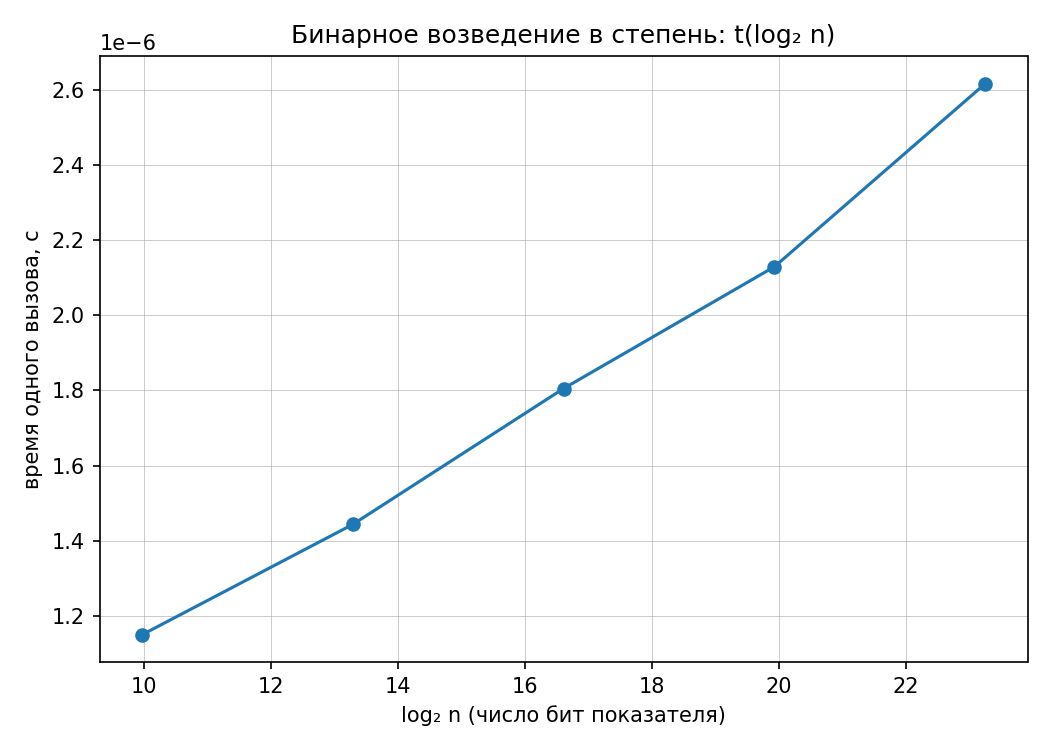
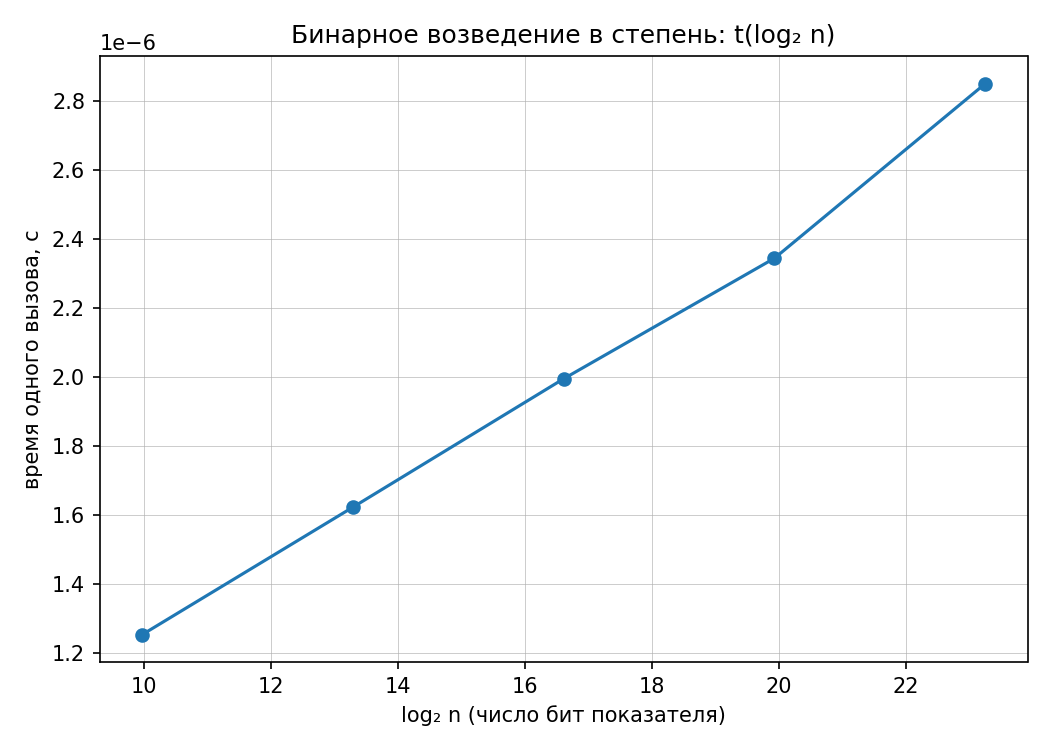
Лаба первая

diff --git a/M1-intro-and-basic-structures/attachments/laba1.py b/M1-intro-and-basic-structures/attachments/laba1.py
@@ -1,0 +1,351 @@
+#!/usr/bin/env python3
+# -*- coding: utf-8 -*-
+"""ЛР 1. Анализ временной сложности элементарных алгоритмов — стартовая заготовка.
+
+Заготовка — это каркас, а не решение: заполните все TODO самостоятельно
+в соответствии с КИМ-01 и правилами использования генеративного ИИ
+(docs/ai-verification.md). Каркас загрузки данных, замеров и построения
+графиков уже готов — учебная задача в алгоритмах и в объяснении результатов.
+
+Работа выполняется на данных СВОЕГО варианта. Перед первым запуском их нужно
+сгенерировать (из корня репозитория курса):
+
+    python scripts/generate_data.py --variant N --only arrays
+
+Запуск (N — ваш номер варианта):
+
+    python lab01-complexity-starter.py --variant N
+
+Если заготовка скопирована в личный репозиторий и каталог с данными не находится
+автоматически, укажите его явно:
+
+    python lab01-complexity-starter.py --variant N --data ~/data-structures-and-algorithms/data/generated
+"""
+from __future__ import annotations
+
+import argparse
+import json
+import math
+import random
+import statistics
+import time
+from pathlib import Path
+
+# ---------------------------------------------------------------------------
+# Параметры эксперимента
+# ---------------------------------------------------------------------------
+
+#: Размеры массивов, для которых generate_data.py создаёт файлы.
+SIZES = (1_000, 3_000, 10_000, 30_000, 100_000)
+
+#: Для квадратичного алгоритма n = 100 000 исключён: это порядка 15 минут.
+#: Размер 500 берётся как префикс файла на 1 000 элементов — так у нас
+#: остаётся пять точек, как требует задание.
+QUADRATIC_SIZES = (500, 1_000, 3_000, 10_000, 30_000)
+
+#: Показатели степени для замера бинарного возведения в степень.
+EXPONENTS = (10**3, 10**4, 10**5, 10**6, 10**7)
+
+#: Модуль для возведения в степень. Без него Python считает длинную арифметику,
+#: и замер покажет рост длины чисел, а не число итераций (см. отчёт).
+POW_MOD = 1_000_000_007
+POW_BASE = 3
+
+REPEATS = 5           # повторов на точку (берётся медиана)
+POW_CALLS = 20_000    # вызовов binary_pow на один замер: иначе время неизмеримо мало
+
+# ---------------------------------------------------------------------------
+# 1. Алгоритмы (реализуются вручную, без sum/max и встроенного pow)
+# ---------------------------------------------------------------------------
+
+
+def array_sum(a: list[int]) -> int:
+    """Сумма элементов массива. Ожидаемая сложность: 0(n) (линейная)."""
+    res=0
+    for x in a:
+        res+=x
+    return res
+    
+
+
+def array_max(a: list[int]) -> int:
+    """Максимум массива (массив непуст). Ожидаемая сложность: 0(n) (линейная)."""
+    max=a[0]
+    for i in range(1,len(a)):
+        if a[i]>max:
+            max=a[i]
+    return max
+
+
+def count_equal_pairs(a: list[int]) -> int:
+    """Число пар (i, j), i < j, таких что a[i] == a[j]. Ожидаемая сложность: 0(n^2) (квадратичная)."""
+    cou=0
+    length=len(a)
+    for i in range(length):
+        for j in range(i+1,length):
+            if a[i]==a[j]:
+                cou+=1
+    return cou
+
+
+def binary_pow(x: int, n: int, mod: int | None = None) -> int:
+    """Бинарное возведение в степень, n >= 0. Ожидаемая сложность: 0(log n) (логарифмическая)."""
+    result=1
+    if mod is not None:
+        x=x%mod
+
+    while n>0:
+        if n%2==1:
+            result=result*x
+            if mod is not None:
+                result=result%mod
+        x=x*x
+        if mod is not None:
+            x=x%mod
+        n//=2
+
+    return result
+
+
+# ---------------------------------------------------------------------------
+# 2. Данные варианта: поиск каталога и загрузка
+# ---------------------------------------------------------------------------
+
+
+def find_data_dir(explicit: Path | None) -> Path:
+    """Каталог с данными варианта: --data, либо data/generated рядом с работой."""
+    if explicit is not None:
+        if not explicit.is_dir():
+            raise SystemExit(f"Каталог не найден: {explicit}")
+        return explicit
+    candidates = []
+    for base in (Path.cwd(), Path(__file__).resolve().parent):
+        for parent in (base, *base.parents):
+            candidates.append(parent / "data" / "generated")
+    for path in candidates:
+        if path.is_dir():
+            return path
+    raise SystemExit(
+        "Не найден каталог data/generated с данными варианта.\n"
+        "Сгенерируйте данные из корня репозитория курса:\n"
+        "    python scripts/generate_data.py --variant N --only arrays\n"
+        "или укажите каталог явно: --data <путь>")
+
+
+def check_variant(data_dir: Path, variant: int) -> None:
+    """Сверить номер варианта с паспортом данных (manifest.json)."""
+    manifest_path = data_dir / "manifest.json"
+    if not manifest_path.is_file():
+        print(f"ВНИМАНИЕ: в {data_dir} нет manifest.json — "
+              f"не могу проверить, что данные относятся к варианту {variant}.")
+        return
+    manifest = json.loads(manifest_path.read_text(encoding="utf-8"))
+    actual = manifest.get("variant")
+    if actual != variant:
+        raise SystemExit(
+            f"Данные в {data_dir} сгенерированы для варианта {actual}, "
+            f"а работа запущена с --variant {variant}.\n"
+            f"Перегенерируйте данные: "
+            f"python scripts/generate_data.py --variant {variant} --only arrays")
+    print(f"Данные варианта {variant} (seed={manifest.get('seed')}) из {data_dir}")
+
+
+def load_array(data_dir: Path, kind: str, n: int, limit: int | None = None) -> list[int]:
+    """Загрузить массив arrays_<kind>_<n>.txt; limit — взять только первые limit чисел."""
+    path = data_dir / f"arrays_{kind}_{n}.txt"
+    if not path.is_file():
+        raise SystemExit(
+            f"Не найден файл данных: {path}\n"
+            f"Сгенерируйте его: python scripts/generate_data.py "
+            f"--variant <ваш вариант> --only arrays")
+    values = [int(line) for line in path.read_text(encoding="utf-8").split()]
+    return values[:limit] if limit is not None else values
+
+
+# ---------------------------------------------------------------------------
+# 3. Репрезентативные тесты и инварианты (шаги 1–3 методики верификации)
+# ---------------------------------------------------------------------------
+
+
+def self_check() -> None:
+    """Граничные и типовые случаи + сверка с эталоном (sum, max, pow)."""
+    # Граничные случаи
+    assert array_sum([]) == 0
+    assert array_sum([7]) == 7
+    assert array_max([3, 1, 2]) == 3
+    assert count_equal_pairs([]) == 0
+    assert count_equal_pairs([5, 5, 5]) == 3          # пары (0,1), (0,2), (1,2)
+    assert binary_pow(2, 0) == 1
+    assert binary_pow(2, 10) == 1024
+    assert binary_pow(2, 10, mod=1000) == 24
+
+    # Сверка с эталонными реализациями на случайных данных
+    rng = random.Random(0)
+    for _ in range(200):
+        a = [rng.randint(-50, 50) for _ in range(rng.randint(1, 60))]
+        assert array_sum(a) == sum(a)
+        assert array_max(a) == max(a)
+        assert count_equal_pairs(a)==count_equal_pairs(a[::-1]) #прверка инвариативности на случайных массивах    
+    for _ in range(200):
+        x, n = rng.randint(2, 50), rng.randint(0, 64)
+        assert binary_pow(x, n, mod=POW_MOD) == pow(x, n, POW_MOD)
+
+    #собственная проверка
+    assert count_equal_pairs([1, 2, 3, 4, 5])==0
+    assert count_equal_pairs([1, 1, 1, 1])==6
+
+    print("self_check: OK")
+
+
+# ---------------------------------------------------------------------------
+# 4. Бенчмарк (методика — docs/reproducibility.md)
+# ---------------------------------------------------------------------------
+
+
+def bench(call) -> float:
+    """Медиана времени выполнения call() по REPEATS запускам, с прогревом."""
+    call()  # прогрев — не учитывается
+    times = []
+    for _ in range(REPEATS):
+        t0 = time.perf_counter()
+        call()
+        times.append(time.perf_counter() - t0)
+    return statistics.median(times)
+
+
+def log_log_slope(points: list[tuple[int, float]]) -> float:
+    """Наклон прямой в осях (log n, log t) — оценка показателя степени."""
+    xs = [math.log10(n) for n, _ in points]
+    ys = [math.log10(t) for _, t in points]
+    mx, my = sum(xs) / len(xs), sum(ys) / len(ys)
+    return (sum((x - mx) * (y - my) for x, y in zip(xs, ys))
+            / sum((x - mx) ** 2 for x in xs))
+
+
+def run_benchmarks(data_dir: Path) -> dict[str, list[tuple[int, float]]]:
+    """Замеры на данных варианта. Возвращает {имя алгоритма: [(n, t), ...]}."""
+    results: dict[str, list[tuple[int, float]]] = {}
+
+    # Линейные алгоритмы — на случайных массивах всех размеров
+    random_arrays = {n: load_array(data_dir, "random", n) for n in SIZES}
+    for name, fn in (("array_sum", array_sum), ("array_max", array_max)):
+        points = []
+        print(f"\n{name}:")
+        for n in SIZES:
+            a = random_arrays[n]
+            t = bench(lambda: fn(a))
+            points.append((n, t))
+            print(f"  n={n:>7}  t={t:.6f} c")
+        results[name] = points
+
+    # Квадратичный алгоритм — на массивах с дубликатами (иначе пар почти нет)
+    print("\ncount_equal_pairs:")
+    points = []
+    for n in QUADRATIC_SIZES:
+        file_n = n if n in SIZES else min(s for s in SIZES if s >= n)
+        a = load_array(data_dir, "dups", file_n, limit=n)
+        t = bench(lambda: count_equal_pairs(a))
+        points.append((n, t))
+        print(f"  n={n:>7}  t={t:.6f} c")
+    results["count_equal_pairs"] = points
+
+    # Логарифмический алгоритм: одна операция слишком быстра, замеряем пачку
+    # вызовов и делим на их число. Считаем по модулю — см. POW_MOD.
+    print(f"\nbinary_pow (по {POW_CALLS} вызовов на точку, по модулю {POW_MOD}):")
+    points = []
+    for e in EXPONENTS:
+        def batch(e: int = e) -> None:
+            for _ in range(POW_CALLS):
+                binary_pow(POW_BASE, e, mod=POW_MOD)
+        t = bench(batch) / POW_CALLS
+        points.append((e, t))
+        print(f"  n={e:>9}  log2(n)={math.log2(e):5.1f}  t={t:.9f} c")
+    results["binary_pow"] = points
+
+    return results
+
+
+# ---------------------------------------------------------------------------
+# 5. Графики
+# ---------------------------------------------------------------------------
+
+
+def plot_results(results: dict[str, list[tuple[int, float]]], out_dir: Path) -> None:
+    """Два графика: log-log для степенных алгоритмов и t(log n) для бинарной степени."""
+    try:
+        import matplotlib
+        matplotlib.use("Agg")  # сохранение в файл без графической оболочки
+        import matplotlib.pyplot as plt
+    except ImportError:
+        print("\nmatplotlib не установлен — графики пропущены "
+              "(pip install -r requirements.txt)")
+        return
+
+    power_law = ("array_sum", "array_max", "count_equal_pairs")
+    fig, ax = plt.subplots(figsize=(7, 5))
+    for name in power_law:
+        points = results[name]
+        ns = [n for n, _ in points]
+        ts = [t for _, t in points]
+        ax.plot(ns, ts, marker="o", label=f"{name} (наклон ≈ {log_log_slope(points):.2f})")
+    ax.set_xscale("log")
+    ax.set_yscale("log")
+    ax.set_xlabel("размер входа n")
+    ax.set_ylabel("время, с")
+    ax.set_title("Время работы в осях log-log")
+    ax.grid(True, which="both", linewidth=0.3)
+    ax.legend()
+    fig.tight_layout()
+    loglog_path = out_dir / "lab01_loglog.png"
+    fig.savefig(loglog_path, dpi=150)
+
+    points = results["binary_pow"]
+    fig2, ax2 = plt.subplots(figsize=(7, 5))
+    ax2.plot([math.log2(n) for n, _ in points], [t for _, t in points], marker="o")
+    ax2.set_xlabel("log₂ n (число бит показателя)")
+    ax2.set_ylabel("время одного вызова, с")
+    ax2.set_title("Бинарное возведение в степень: t(log₂ n)")
+    ax2.grid(True, linewidth=0.3)
+    fig2.tight_layout()
+    pow_path = out_dir / "lab01_binary_pow.png"
+    fig2.savefig(pow_path, dpi=150)
+
+    print(f"\nГрафики сохранены:\n  {loglog_path}\n  {pow_path}")
+    # TODO: в отчёте объяснить, почему для binary_pow выбраны ЛИНЕЙНЫЕ оси
+    # по log₂ n, а не log-log (какой вид имеет логарифмическая зависимость
+    # в осях log-log и почему по ней трудно судить о порядке роста).
+
+
+# ---------------------------------------------------------------------------
+
+
+def main() -> None:
+    ap = argparse.ArgumentParser(description=__doc__,
+                                 formatter_class=argparse.RawDescriptionHelpFormatter)
+    ap.add_argument("--variant", type=int, required=True, help="номер варианта")
+    ap.add_argument("--data", type=Path, default=None,
+                    help="каталог с данными варианта (по умолчанию ищется data/generated)")
+    ap.add_argument("--out", type=Path, default=Path.cwd(),
+                    help="каталог для графиков (по умолчанию текущий)")
+    args = ap.parse_args()
+
+    data_dir = find_data_dir(args.data)
+    check_variant(data_dir, args.variant)
+
+    self_check()
+    results = run_benchmarks(data_dir)
+
+    print("\nНаклон в осях log-log (оценка показателя степени):")
+    for name in ("array_sum", "array_max", "count_equal_pairs"):
+        print(f"  {name:20s} {log_log_slope(results[name]):.3f}")
+    # TODO: сопоставить наклоны с аналитическими оценками из отчёта
+    # и объяснить расхождения (константы, кэш, накладные расходы интерпретатора).
+
+    plot_results(results, args.out)
+
+
+if __name__ == "__main__":
+    main()
+
+
+    
